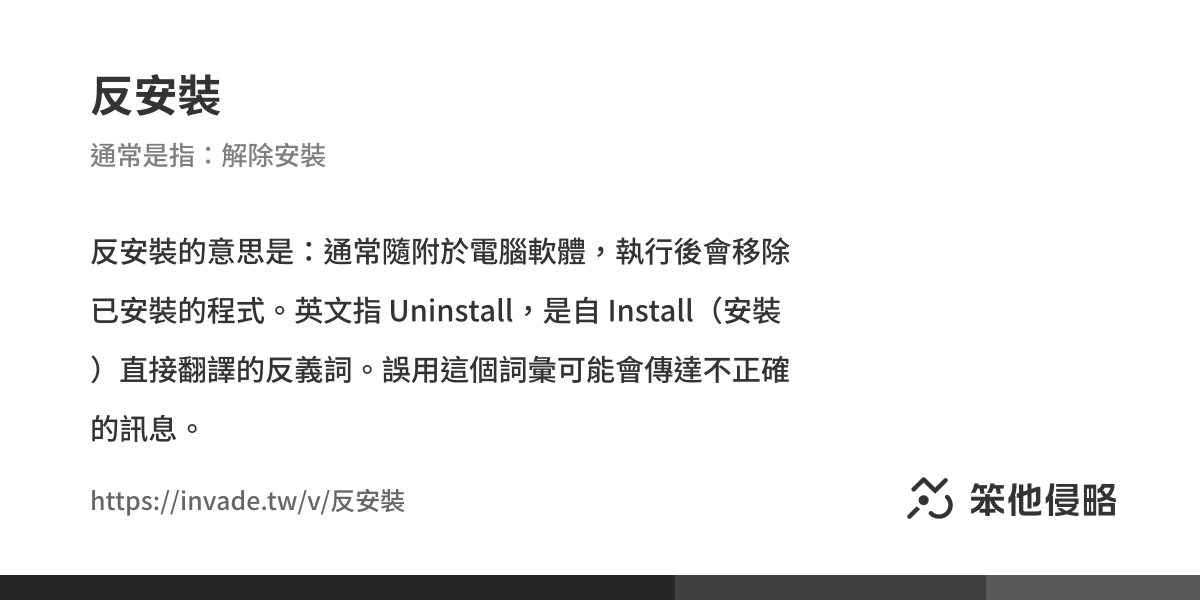
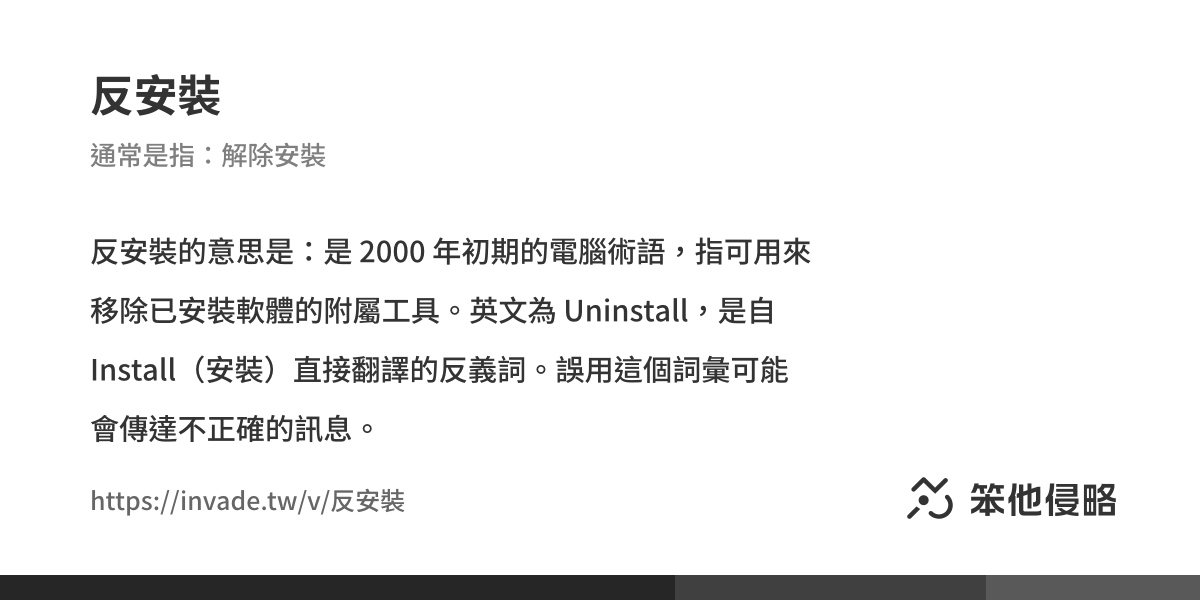
update

diff --git a/docs/v/反安裝.html b/docs/v/反安裝.html
@@ -1,9 +1,9 @@
-<!doctype html><html class="is-secondary is-sharp"><meta charset=utf-8><meta name=viewport content="width=device-width,initial-scale=1"><title>《反安裝》的意思、解釋及例句｜中國侵略性詞彙、支語字典</title><link rel=stylesheet href=https://invade.tw/assets/tocas/tocas.min.css><script src=https://invade.tw/assets/tocas/tocas.min.js></script><link rel=preconnect href=https://fonts.googleapis.com><link rel=preconnect href=https://fonts.gstatic.com crossorigin><link href="https://fonts.googleapis.com/css2?family=Noto+Sans+TC:wght@400;500;700&display=swap" rel=stylesheet><link rel=stylesheet href=https://invade.tw/assets/styles/style.css><link rel=stylesheet href=https://invade.tw/assets/styles/vocab.css><script src=https://invade.tw/assets/scripts/db_store.js defer></script><script src=https://invade.tw/assets/scripts/db_random_items.js defer></script><script src=https://invade.tw/assets/scripts/db_random_vocabs.js defer></script><script src=https://invade.tw/assets/scripts/random_store.js defer></script><script src=https://cdnjs.cloudflare.com/ajax/libs/alpinejs/3.14.5/cdn.min.js defer></script><meta name=description content="反安裝的意思是：通常隨附於電腦軟體，執行後會移除已安裝的程式。英文指 Uninstall，是自 Install（安裝）直接翻譯的反義詞。"><meta name=twitter:card content=summary><meta name=twitter:title content=《反安裝》的意思、解釋及例句｜中國侵略性詞彙、支語字典><meta name=twitter:description content="反安裝的意思是：通常隨附於電腦軟體，執行後會移除已安裝的程式。英文指 Uninstall，是自 Install（安裝）直接翻譯的反義詞。"><meta name=twitter:image content=https://invade.tw/assets/vocab_covers/5Y+N5a6J6KOd.png><meta property=og:site_name content=中國侵略資料庫><meta property=og:title content=《反安裝》的意思、解釋及例句｜中國侵略性詞彙、支語字典><meta property=og:type content=article><meta property=og:image content=https://invade.tw/assets/vocab_covers/5Y+N5a6J6KOd.png><meta property=og:url content=https://invade.tw/v/反安裝><meta property=og:image:type content=image/png><meta property=og:image:width content=1200><meta property=og:image:height content=600><meta property=og:description content="反安裝的意思是：通常隨附於電腦軟體，執行後會移除已安裝的程式。英文指 Uninstall，是自 Install（安裝）直接翻譯的反義詞。"><meta property=og:updated_time content=2025-04-11T11:33:29+08:00><meta property=article:modified_time content=2025-04-11T11:33:29+08:00><link rel=apple-touch-icon sizes=180x180 href=https://invade.tw/assets/favicons/apple-touch-icon.png><link rel=icon type=image/png sizes=32x32 href=https://invade.tw/assets/favicons/favicon-32x32.png><link rel=icon type=image/png sizes=16x16 href=https://invade.tw/assets/favicons/favicon-16x16.png><link rel=manifest href=https://invade.tw/assets/favicons/site.webmanifest><link rel=mask-icon href=https://invade.tw/assets/favicons/safari-pinned-tab.svg color=#5bbad5><link rel="shortcut icon" href=https://invade.tw/assets/favicons/favicon.ico><meta name=msapplication-TileColor content=#da532c><meta name=msapplication-config content=https://invade.tw/assets/favicons/browserconfig.xml><meta name=theme-color content=#ffffff><body class="tablet:裝置-平板 mobile:裝置-行動" x-data=random_store><div id=導覽列><div class=ts-container><div class="ts-grid is-middle-aligned is-relaxed mobile:has-hidden"><div class=column><div class="ts-wrap is-middle-aligned is-relaxed"><a href=https://invade.tw class="ts-image has-leading-none"><img id=導覽列-商標 src=https://invade.tw/assets/images/logo-text.svg></a>
+<!doctype html><html class="is-secondary is-sharp"><meta charset=utf-8><meta name=viewport content="width=device-width,initial-scale=1"><title>《反安裝》的意思、解釋及例句｜中國侵略性詞彙、支語字典</title><link rel=stylesheet href=https://invade.tw/assets/tocas/tocas.min.css><script src=https://invade.tw/assets/tocas/tocas.min.js></script><link rel=preconnect href=https://fonts.googleapis.com><link rel=preconnect href=https://fonts.gstatic.com crossorigin><link href="https://fonts.googleapis.com/css2?family=Noto+Sans+TC:wght@400;500;700&display=swap" rel=stylesheet><link rel=stylesheet href=https://invade.tw/assets/styles/style.css><link rel=stylesheet href=https://invade.tw/assets/styles/vocab.css><script src=https://invade.tw/assets/scripts/db_store.js defer></script><script src=https://invade.tw/assets/scripts/db_random_items.js defer></script><script src=https://invade.tw/assets/scripts/db_random_vocabs.js defer></script><script src=https://invade.tw/assets/scripts/random_store.js defer></script><script src=https://cdnjs.cloudflare.com/ajax/libs/alpinejs/3.14.5/cdn.min.js defer></script><meta name=description content="反安裝的意思是：是 2000 年初期的電腦術語，指可用來移除已安裝軟體的附屬工具。英文為 Uninstall，是自 Install（安裝）直接翻譯的反義詞。"><meta name=twitter:card content=summary><meta name=twitter:title content=《反安裝》的意思、解釋及例句｜中國侵略性詞彙、支語字典><meta name=twitter:description content="反安裝的意思是：是 2000 年初期的電腦術語，指可用來移除已安裝軟體的附屬工具。英文為 Uninstall，是自 Install（安裝）直接翻譯的反義詞。"><meta name=twitter:image content=https://invade.tw/assets/vocab_covers/5Y+N5a6J6KOd.png><meta property=og:site_name content=中國侵略資料庫><meta property=og:title content=《反安裝》的意思、解釋及例句｜中國侵略性詞彙、支語字典><meta property=og:type content=article><meta property=og:image content=https://invade.tw/assets/vocab_covers/5Y+N5a6J6KOd.png><meta property=og:url content=https://invade.tw/v/反安裝><meta property=og:image:type content=image/png><meta property=og:image:width content=1200><meta property=og:image:height content=600><meta property=og:description content="反安裝的意思是：是 2000 年初期的電腦術語，指可用來移除已安裝軟體的附屬工具。英文為 Uninstall，是自 Install（安裝）直接翻譯的反義詞。"><meta property=og:updated_time content=2025-04-11T11:52:21+08:00><meta property=article:modified_time content=2025-04-11T11:52:21+08:00><link rel=apple-touch-icon sizes=180x180 href=https://invade.tw/assets/favicons/apple-touch-icon.png><link rel=icon type=image/png sizes=32x32 href=https://invade.tw/assets/favicons/favicon-32x32.png><link rel=icon type=image/png sizes=16x16 href=https://invade.tw/assets/favicons/favicon-16x16.png><link rel=manifest href=https://invade.tw/assets/favicons/site.webmanifest><link rel=mask-icon href=https://invade.tw/assets/favicons/safari-pinned-tab.svg color=#5bbad5><link rel="shortcut icon" href=https://invade.tw/assets/favicons/favicon.ico><meta name=msapplication-TileColor content=#da532c><meta name=msapplication-config content=https://invade.tw/assets/favicons/browserconfig.xml><meta name=theme-color content=#ffffff><body class="tablet:裝置-平板 mobile:裝置-行動" x-data=random_store><div id=導覽列><div class=ts-container><div class="ts-grid is-middle-aligned is-relaxed mobile:has-hidden"><div class=column><div class="ts-wrap is-middle-aligned is-relaxed"><a href=https://invade.tw class="ts-image has-leading-none"><img id=導覽列-商標 src=https://invade.tw/assets/images/logo-text.svg></a>
 <a class=導覽列-項目 href=https://invade.tw/items><span class="ts-icon is-regular is-compass-icon"></span>瀏覽</a></div></div><div class="column is-center-aligned is-fluid"><form action=https://invade.tw/vocabs><div id=導覽列-搜尋欄位 class="ts-input is-solid is-start-icon tablet:has-hidden"><span class="ts-icon is-magnifying-glass-icon"></span><input type=search name=q placeholder=搜尋詞彙…></div></form></div><div class=column><div class="ts-wrap is-relaxed is-end-aligned"><a class=導覽列-項目 href=https://invade.tw/about><span class="ts-icon is-regular is-circle-question-icon"></span>關於</a>
 <a class=導覽列-項目 href=https://invade.tw/news><span class="ts-icon is-regular is-message-icon"></span>新聞</a>
 <a class=導覽列-項目 target=_blank href=https://github.com/caris-events/invade><span class="ts-icon is-brand is-github-icon"></span>GitHub</a></div></div></div><div class="ts-grid is-middle-aligned tablet+:has-hidden"><div class="column is-fluid"><div class="ts-wrap is-middle-aligned is-relaxed"><button id=導覽列-漢堡按鈕 type=button class="ts-button is-icon is-large is-ghost" data-dialog=側邊欄>
 <span class="ts-icon is-bars-icon"></span></button>
-<a href=https://invade.tw class="ts-image has-leading-none"><img id=導覽列-商標 src=https://invade.tw/assets/images/logo-text.svg></a></div></div><div class=column><a class="ts-button is-icon is-large is-ghost" href=https://invade.tw/vocabs><span class="ts-icon is-magnifying-glass-icon"></span></a><a class="ts-button is-icon is-large is-ghost" href=https://github.com/caris-events/invade target=_blank><span class="ts-icon is-brand is-github-icon"></span></a></div></div></div></div><div class=ts-divider></div><dialog id=側邊欄 class="ts-app-drawer is-start"><div class="content has-flex-column"><div id=側邊欄-標頭 class=ts-content><button id=側邊欄-關閉按鈕 class="ts-close is-secondary is-large" data-dialog=側邊欄></button></div><div id=側邊欄-選單 class="ts-menu is-start-icon"><div class=ts-divider></div><a class=item href=https://invade.tw><span class="ts-icon is-house-icon"></span>首頁</a><div class=ts-divider></div><a class=item href=https://invade.tw/items><span class="ts-icon is-list-icon"></span>瀏覽所有項目</a><div class=ts-divider></div></div><div class=has-top-spaced-auto><div id=側邊欄-選單 class="ts-menu is-start-icon"><div class=ts-divider></div><a class=item href=https://invade.tw/about><span class="ts-icon is-circle-question-icon"></span>關於</a><div class=ts-divider></div><a class=item href=https://invade.tw/news><span class="ts-icon is-newspaper-icon"></span>新聞</a><div class=ts-divider></div><a class=item target=_blank href=https://invade.tw/contribute><span class="ts-icon is-pen-to-square-icon"></span>建議、修改條目</a><div class=ts-divider></div><a class=item target=_blank href=https://github.com/caris-events/invade><span class="ts-icon is-brand is-github-icon"></span>GitHub</a><div class=ts-divider></div></div></div><div class=ts-content><button class="ts-button is-outlined is-fluid" data-dialog=側邊欄>關閉選單</button></div></div></dialog><div class="ts-container tablet-:has-vertically-padded-large desktop+:has-vertically-padded-big mobile:is-fitted"><div id=單字-板岩><div class=ts-grid><div class="column is-fluid"><div class="ts-wrap is-compact has-bottom-spaced tablet+:has-hidden"><a href="https://invade.tw/vocabs?c=TECHNOLOGY" class="ts-badge is-secondary">科技</a></div><div class="ts-wrap mobile:is-compact"><div class=單字-板岩-每個分解><div class=單字-板岩-每個分解-漢字>反</div><div class="單字-板岩-每個分解-注音 has-flex-center"><div class="ts-text is-bold">ㄈ</div><div class="ts-text is-bold">ㄢ</div><div class=單字-板岩-每個分解-注音-標點符號>ˇ</div></div></div><div class=單字-板岩-每個分解><div class=單字-板岩-每個分解-漢字>安</div><div class="單字-板岩-每個分解-注音 has-flex-center"><div class="ts-text is-bold">ㄢ</div></div></div><div class=單字-板岩-每個分解><div class=單字-板岩-每個分解-漢字>裝</div><div class="單字-板岩-每個分解-注音 has-flex-center"><div class="ts-text is-bold">ㄓ</div><div class="ts-text is-bold">ㄨ</div><div class="ts-text is-bold">ㄤ</div></div></div></div><div id=單字-板岩-說明 class="tablet+:has-top-spaced-large mobile:has-top-spaced tablet+:has-16px mobile:has-15px">通常隨附於電腦軟體，執行後會移除已安裝的程式。英文指 Uninstall，是自 Install（安裝）直接翻譯的反義詞。</div></div><div class="column mobile:has-hidden"><div class="ts-wrap is-compact is-end-aligned"><span class="ts-text is-secondary">分類：</span>
+<a href=https://invade.tw class="ts-image has-leading-none"><img id=導覽列-商標 src=https://invade.tw/assets/images/logo-text.svg></a></div></div><div class=column><a class="ts-button is-icon is-large is-ghost" href=https://invade.tw/vocabs><span class="ts-icon is-magnifying-glass-icon"></span></a><a class="ts-button is-icon is-large is-ghost" href=https://github.com/caris-events/invade target=_blank><span class="ts-icon is-brand is-github-icon"></span></a></div></div></div></div><div class=ts-divider></div><dialog id=側邊欄 class="ts-app-drawer is-start"><div class="content has-flex-column"><div id=側邊欄-標頭 class=ts-content><button id=側邊欄-關閉按鈕 class="ts-close is-secondary is-large" data-dialog=側邊欄></button></div><div id=側邊欄-選單 class="ts-menu is-start-icon"><div class=ts-divider></div><a class=item href=https://invade.tw><span class="ts-icon is-house-icon"></span>首頁</a><div class=ts-divider></div><a class=item href=https://invade.tw/items><span class="ts-icon is-list-icon"></span>瀏覽所有項目</a><div class=ts-divider></div></div><div class=has-top-spaced-auto><div id=側邊欄-選單 class="ts-menu is-start-icon"><div class=ts-divider></div><a class=item href=https://invade.tw/about><span class="ts-icon is-circle-question-icon"></span>關於</a><div class=ts-divider></div><a class=item href=https://invade.tw/news><span class="ts-icon is-newspaper-icon"></span>新聞</a><div class=ts-divider></div><a class=item target=_blank href=https://invade.tw/contribute><span class="ts-icon is-pen-to-square-icon"></span>建議、修改條目</a><div class=ts-divider></div><a class=item target=_blank href=https://github.com/caris-events/invade><span class="ts-icon is-brand is-github-icon"></span>GitHub</a><div class=ts-divider></div></div></div><div class=ts-content><button class="ts-button is-outlined is-fluid" data-dialog=側邊欄>關閉選單</button></div></div></dialog><div class="ts-container tablet-:has-vertically-padded-large desktop+:has-vertically-padded-big mobile:is-fitted"><div id=單字-板岩><div class=ts-grid><div class="column is-fluid"><div class="ts-wrap is-compact has-bottom-spaced tablet+:has-hidden"><a href="https://invade.tw/vocabs?c=TECHNOLOGY" class="ts-badge is-secondary">科技</a></div><div class="ts-wrap mobile:is-compact"><div class=單字-板岩-每個分解><div class=單字-板岩-每個分解-漢字>反</div><div class="單字-板岩-每個分解-注音 has-flex-center"><div class="ts-text is-bold">ㄈ</div><div class="ts-text is-bold">ㄢ</div><div class=單字-板岩-每個分解-注音-標點符號>ˇ</div></div></div><div class=單字-板岩-每個分解><div class=單字-板岩-每個分解-漢字>安</div><div class="單字-板岩-每個分解-注音 has-flex-center"><div class="ts-text is-bold">ㄢ</div></div></div><div class=單字-板岩-每個分解><div class=單字-板岩-每個分解-漢字>裝</div><div class="單字-板岩-每個分解-注音 has-flex-center"><div class="ts-text is-bold">ㄓ</div><div class="ts-text is-bold">ㄨ</div><div class="ts-text is-bold">ㄤ</div></div></div></div><div id=單字-板岩-說明 class="tablet+:has-top-spaced-large mobile:has-top-spaced tablet+:has-16px mobile:has-15px">是 2000 年初期的電腦術語，指可用來移除已安裝軟體的附屬工具。英文為 Uninstall，是自 Install（安裝）直接翻譯的反義詞。</div></div><div class="column mobile:has-hidden"><div class="ts-wrap is-compact is-end-aligned"><span class="ts-text is-secondary">分類：</span>
 <a href="https://invade.tw/vocabs?c=TECHNOLOGY" class="ts-badge is-secondary">科技</a></div></div></div><div id=單字-板岩-角落文字>侵略性詞彙</div></div><div class="ts-grid tablet+:is-relaxed tablet+:has-top-spaced-big mobile:has-top-spaced-large mobile:is-stacked"><div class="column tablet:is-11-wide desktop+:is-12-wide"><div class="ts-header mobile:has-horizontally-padded">用法與例句</div><div class="ts-box has-top-spaced mobile:has-edged"><div class="ts-content tablet+:is-padded mobile:is-vertically-padded"><div class=ts-header><span class=單字-範例符號>◆</span>
 解除安裝</div><div class="tablet+:ts-content is-rounded is-secondary has-top-spaced"><div class="ts-grid mobile:is-compact"><div class=column><span class="單字-對應國家 mobile:has-13px">台灣</span></div><div class="column is-fluid"><p>這款軟體的資料夾裡有<span class=單字-螢光標記-重點>解除安裝</span>工具。</div></div><div class="ts-grid mobile:is-compact has-top-spaced"><div class=column><span class="單字-對應國家 mobile:has-13px">中國</span></div><div class="column is-fluid"><p>這款<a class=單字-螢光標記-其他單字 href=https://invade.tw/v/軟件>軟件</a>的<a class=單字-螢光標記-其他單字 href=https://invade.tw/v/文件>文件</a>夾裡有<span class=單字-螢光標記-重點>反安裝</span>工具。</div></div></div><div class="ts-divider has-vertically-spaced-large has-hidden-last"></div></div></div><div class="ts-grid is-bottom-aligned tablet+:has-top-spaced-big mobile:has-top-spaced-large mobile:has-horizontally-padded"><div class="column is-fluid"><div class=ts-header>看看這些詞彙</div></div><div class=column><a href=https://invade.tw/vocabs class="ts-button is-outlined">檢視更多</a></div></div><div id=隨機詞彙 class="ts-grid is-3-columns has-top-spaced tablet+:is-3-columns mobile:is-2-columns mobile:has-horizontally-padded"><template x-for="vocab in vocabs(9)"><div class=column><a :href="`https://invade.tw/v/${vocab.word}`" class=ts-box><div class="ts-content tablet+:is-horizontally-padded"><div class="ts-text is-bold is-1-lines tablet+:has-16px mobile:has-15px" x-text=vocab.word></div><div class="ts-text is-secondary is-1-lines" x-text=vocab.correct_word></div></div></a></div></template></div><div class="ts-grid is-bottom-aligned tablet+:has-top-spaced-big mobile:has-top-spaced-large mobile:has-horizontally-padded"><div class="column is-fluid"><div class=ts-header>看看這些品牌</div></div><div class=column><a href=https://invade.tw/items class="ts-button is-outlined">檢視更多</a></div></div><div id=隨機條目 class="ts-grid has-top-spaced desktop+:is-5-columns tablet:is-3-columns mobile:is-2-columns mobile:has-horizontally-padded"><template x-for="item in items(10)"><div class=column><a :href="`https://invade.tw/${item.code}`" class=ts-box><div class="ts-content is-center-aligned"><div class="商標圖示 商標圖示-隨機項目 ts-image"><img :src="`https://invade.tw/assets/item_logos/${item.code}.jpg`"></div><div class="ts-text is-1-lines is-center-aligned has-15px" x-text=item.name></div><div class="ts-text is-secondary is-1-lines"><template x-if="item.name_alias !== ''"><span x-text=item.name_alias></span></template><template x-if="item.name_alias === ''"><span x-text="`${item.owner_str}${item.type_str}`"></span></template></div></div></a></div></template></div></div><div class="column tablet:is-5-wide desktop+:is-4-wide mobile:has-horizontally-padded"><div class="ts-header mobile:has-top-spaced">侵略性詞彙是什麼？</div><div class="ts-text is-secondary has-top-spaced"><p>經過中國的言論審查、中共思想而使用的詞彙，例如：中國常以「領導」代稱台灣總統；或以「台灣地區」來暗喻台灣不是國家。<p>語言代表一個國家的文化與思想，若長時間誤用這些詞彙，可能會在無形之中影響自己的思考方式。</p><a href=https://invade.tw/n/侵略性詞彙的定義 class="ts-button is-circular is-outlined">了解更多</a></div><div class="ts-divider has-vertically-spaced-large"></div><div class=ts-header>透過匿名方式提供內容</div><div class="ts-text is-secondary has-top-spaced">保持匿名性來協助新增、編輯條目，請透過此 Google 表單填寫資料。</div><a target=_blank rel="noopener noreferrer" href=https://invade.tw/contribute class="ts-button is-circular is-outlined has-top-spaced">填寫 Google 表單</a></div></div></div><div class=ts-divider></div><div class="ts-container has-top-padded-big tablet:has-bottom-padded-big desktop+:has-bottom-padded-huge mobile:has-bottom-padded-big"><div class="ts-grid is-bottom-aligned is-relaxed mobile:is-stacked"><div class="column tablet:is-11-wide desktop+:is-12-wide"><div id=頁腳-文字 class=has-leading-large>此頁面之商標、圖示屬於該相關組織且僅作為提及並無挪作他用。在非營利與教育目的下主張合理使用並以低解析度保護原著作。資料來自網路參考、大眾共同編輯，閱聽者應妥善查證其完整性、即時性與正確性，且不得作為法律依據。<br><br>笨他侵略來自
 <span id=頁腳-國旗 class="ts-flag is-taiwan-flag is-rounded is-small"></span>台灣，原始碼授權為

diff --git a/docs/assets/scripts/db_random_items.js b/docs/assets/scripts/db_random_items.js
@@ -1,1 +1,1 @@
-var db_random_items = [["orient-international","東方國際","Orient International",3,1,4],["paper-games","疊紙遊戲","Paper Games",3,1,3],["hololive","Hololive Production","",4,3,4],["gaea","蓋婭互娛","GAEA",3,1,3],["type-moon","TYPE-MOON","",4,1,2],["news-market","上下游新聞","News\u0026Market",1,1,1],["aihuanhuan","換換","",3,1,3],["oppo","OPPO","歐珀",3,1,3],["want-want","旺旺集團","Want Want",1,1,4],["miside","MiSide","",4,6,0],["ingco-tools","盈合工具","INGCO Tools",3,1,4],["orient-enterprise","東方創業","Orient Enterprise",3,1,4],["nexus-point","今翊資本","Nexus Point Capital",2,1,2],["chillyroom","涼屋遊戲","ChillyRoom",3,1,3],["chinese-academy-of-sciences","中國科學院","Chinese Academy Of Sciences",3,3,4],["long-cheng","龍成網路","Long Cheng",1,1,4],["babeltime","巴別時代","Babeltime",3,1,3],["efun","易幻網路","Efun",3,1,3],["netease","網易","Netease",3,1,3],["midea","美的集團","Midea Group",3,1,3],["cover-corporation","Cover 株式會社","Cover Corporation",4,1,4],["lava-music","拿火音樂","LAVA MUSIC",3,1,3],["path-of-exile","流亡黯道","Path of Exile",4,6,3],["the-finals","最終決戰","THE FINALS",4,6,4],["sunnyhills","微熱山丘","SunnyHills",1,1,4],["tencent-cloud","騰訊雲","Tencent Cloud",3,5,3],["sina","新浪","Sina",3,1,3],["openharmony","OpenHarmony","",3,3,3],["disney-interactive","迪士尼互動","Disney Interactive",4,1,4],["genshin-impact","原神","Genshin Impact",3,6,3],["kingsoft","金山軟件","Kingsoft",3,1,3],["acer","Acer","宏碁",1,1,0],["gaijin-entertainment","Gaijin Entertainment","",4,1,4],["huobi","火幣","Huobi",3,1,4],["stella-sora","星塔旅人","Stella Sora",3,6,3],["darkwinter-software","暗冬網路","Darkwinter Software",3,1,3],["mamba-interactive","曼巴互娛","Mamba Interactive",1,1,3],["cathay-united-bank","國泰世華","Cathay United Bank",1,1,2],["hypergryph","鷹角網絡","HYPERGRYPH",3,1,3],["yingsin-win","盈新五金","",1,1,2],["central-military-commission","中央軍事委員會","CMC",3,3,4],["mihoyo","米哈遊","miHoYo",3,1,3],["cygames","Cygames","",4,1,2],["gryphline","獅鷲邊境","GRYPHLINE",4,1,3],["komoe-game","小萌科技","Komoe Game",1,1,4],["str-network","薩泰爾娛樂","STR Network",1,1,2],["dcard","Dcard","",1,1,2],["sony","索尼","Sony",4,1,2],["peiyu-digital","沛羽數位","Peiyu Digital",1,1,0],["soundcloud","SoundCloud","",4,1,4],["sea","冬海集團","Sea Limited",4,1,3],["kakao-games","Kakao Games","",4,1,3],["gamepanda","熊貓遊戲","Game Panda",1,1,3],["garena","競舞娛樂","Garena",4,1,3],["fun-hope","峰禾科技","FunHope",1,1,3],["contract-of-fate","命運聖契","Contract of Fate",3,6,3],["kingsgroup","王者在線","KingsGroup",3,1,3],["joker081888","勾起你心中的惡","勾惡",1,2,1],["stove","Stove","",4,5,4],["ubisoft","育碧娛樂","Ubisoft Entertainment SA",4,1,4],["youthdew","朝露工作室","Youth Dew Games",3,1,3],["quantic-dream","Quantic Dream","",4,1,3],["jd","京東","JD.com",3,1,3],["pci-technology","佳都科技","PCI Technology",3,1,3],["geely","吉利汽車","Geely Automobile",3,1,4],["lighthouse-capital","光源資本","Lighthouse Capital",3,1,3],["xiaomi","小米","Xiaomi",3,1,3],["xd-network","心動網路","X.D. Network",3,1,4],["nespresso","Nespresso","",4,1,2],["arknights-endfield","明日方舟：終末地","Arknights: Endfield",3,6,3],["marvel-rivals","漫威爭鋒","Marvel Rivals",3,6,3],["spgame","成都露珠","Spring Game",3,1,3],["electronic-arts","美商藝電","Electronic Arts",4,1,1],["alipay","支付寶","Alipay",3,1,3],["garmin","台灣國際航電","Garmin",4,1,4],["cas-investment","國科投資","",3,3,4],["harmonyos","鴻蒙","HarmonyOS",3,4,3],["lasengle","LASENGLE","",4,1,2],["nexon","樂線","Nexon",4,1,4],["changyou","暢遊時代","Changyou",3,1,3],["wanda-group","萬達集團","Wanda Group",3,1,3],["shopee","蝦皮購物","Shopee",4,5,3],["openatom-foundation","開放原子開源基金會","OpenAtom Foundation",3,3,3],["original-games","奧瑞吉","Original Games",1,1,3],["peroperogames","呸嘍呸嘍","PeroPeroGames",3,1,4],["mojang-studio","Mojang Studios","",4,1,4],["koimi-studio","箜羽工作室","Koimi Studio",3,3,3],["acerpure","Acerpure","宏碁智新",1,1,2],["funplus-phoenix","FPX 電子競技俱樂部","FunPlus Phoneix",3,3,3],["cheetah-mobile","獵豹移動","Cheetah Mobile",3,1,3],["roshow","露笑集團","Roshow",3,1,3],["mk-power","MK-POWER","",1,7,2],["igalia","Igalia","",4,1,0],["supercell","超級細胞","Supercell Oy",4,1,3],["tiktok","抖音","TikTok",3,5,3],["tencent","騰訊","Tencent",3,1,3],["rolling-dice-labs","Rolling Dice Labs","",4,1,3],["china-times","中時新聞網","China Times",1,1,4],["honor","榮耀","Honor",3,1,4],["disney-plus","Disney+","迪士尼+",4,5,4]]
+var db_random_items = [["supercell","超級細胞","Supercell Oy",4,1,3],["marathon-game","馬拉松","Marathon",4,6,2],["shopee","蝦皮購物","Shopee",4,5,3],["detroit-become-human","底特律：化身為人","Detroit: Become Human",4,6,3],["cyberagent","CyberAgent","",4,1,2],["midea","美的集團","Midea Group",3,1,3],["funyours-technology","弘煜科技","FUNYOURS TECHNOLOGY",1,1,2],["world-journal","世界日報","World Journal",1,1,1],["yadea","雅迪","Yadea",3,1,3],["greenwoods-asset-management","景林資產","Greenwoods Asset Management Limited",3,1,3],["indieark","獨立方舟","IndieArk",3,1,3],["bilibili","嗶哩嗶哩","Bilibili",3,1,4],["national-university-of-defense-technology","國防科技大學","NUDT",3,3,4],["unity","Unity","",4,1,4],["cas-investment","國科投資","",3,3,4],["lotus-cars","蓮花汽車","Lotus Cars",4,1,4],["amatsuki-mahjong","天月麻雀","Amatsuki Mahjong",3,6,3],["taiwan-fixed-network","台灣固網","Taiwan Fixed Network",1,1,2],["wind-fantasy-destiny","風色幻想：命運傳說","Wind Fantasy: Destiny",3,6,3],["igalia","Igalia","",4,1,0],["marvel-games","漫威遊戲","Marvel Games",4,1,4],["kartrider-drift","跑跑卡丁車：飄移","KartRider: Drift",4,6,4],["disney-interactive","迪士尼互動","Disney Interactive",4,1,4],["porsche","保時捷","Porsche",4,1,1],["houkai-gakuen-2","崩壞學園 2","Houkai Gakuen 2",3,6,3],["kaiyuanshe","開源社","Kaiyuanshe",3,3,4],["funplus-phoenix","FPX 電子競技俱樂部","FunPlus Phoneix",3,3,3],["lilith-games","莉莉絲遊戲","Lilith Games",3,1,3],["mojang-studio","Mojang Studios","",4,1,4],["united-daily-news-group","聯合報系","United Daily News Group",1,1,1],["hearts-net","紅心網路","Hearts Net",1,1,3],["darkwinter-software","暗冬網路","Darkwinter Software",3,1,3],["woobest","極致遊戲","Woobest",3,1,3],["starwave-networks","STARWAVE NET","",3,1,0],["burger-king-taiwan","漢堡王台灣","Burger King Taiwan",1,1,1],["want-want-china-times-group","旺旺中時媒體集團","Want Want China Times Group",1,1,4],["iwplay-world","艾玩天地","Iwplay World",1,1,3],["john-cena","John Cena","約翰·希南",4,2,1],["37-interactive-entertainment","三七互娛","37 Games",3,1,3],["wupaochun","吳寶春麥方店","",1,1,4],["capital-group","資本集團","Capital Group",4,1,0],["mihoyo","米哈遊","miHoYo",3,1,3],["cognosphere","Cognosphere","識隙之城",4,1,3],["tvbs","TVBS","",1,1,2],["skymoons","天象互動","Skymoons",3,1,3],["disney-plus","Disney+","迪士尼+",4,5,4],["type-moon","TYPE-MOON","",4,1,2],["inch-interactive-entertainment","英旗互動娛樂","Inch",1,1,3],["jd","京東","JD.com",3,1,3],["ea-dice","EA DICE","",4,1,1],["quantic-dream","Quantic Dream","",4,1,3],["shunwei-capital","順為資本","Shunwei Capital",3,1,3],["koimi-studio","箜羽工作室","Koimi Studio",3,3,3],["pwb-play","品玩邦藝術","PWB Play",1,1,0],["paper-games","疊紙遊戲","Paper Games",3,1,3],["cti-news","中天新聞","CTI News Channel",1,1,4],["tuanjie-engine","團結引擎","Tuanjie Engine",3,4,4],["changyou","暢遊時代","Changyou",3,1,3],["yostar","悠星網路","Yostar",3,1,3],["greenpeace","綠色和平","Greenpeace",4,3,4],["perfect-world","完美世界","Perfect World",3,1,3],["stella-sora","星塔旅人","Stella Sora",3,6,3],["mozilla-servo","Servo","",4,4,0],["kakao-page","Kakao Page","",4,5,3],["deepseek","深度求索","DeepSeek",3,1,4],["haojue","豪爵","Haojue",3,1,3],["path-of-exile-2","流亡黯道 2","Path of Exile 2",4,6,3],["eskyfun","天游網路","Eskyfun",3,1,3],["bluepoch","深藍互動","Bluepoch",3,1,3],["bstation","Bstation","",3,5,4],["drodo-studio","巨鳥多多工作室","Drodo Studio",3,3,3],["hoto","小猴科技","HOTO",3,1,3],["iqiyi","愛奇藝","iQiyi",3,1,3],["mirrors-edge-catalyst","靚影特務：關鍵催化","Mirror's Edge Catalyst",4,6,1],["aisphere","愛詩科技","",3,1,3],["mahjong-meta","Mahjong Meta","",4,6,4],["mover-games","魔塊遊戲","Mover Games",1,1,2],["total-tools","TOTAL 工具","TOTAL Tools",3,1,4],["hololive","Hololive Production","",4,3,4],["united-nations","聯合國","United Nations",4,3,4],["inkism-international","墨力國際","Inkism",1,1,4],["btg","首旅集團","Beijing Tourism Group",3,3,4],["gaea","蓋婭互娛","GAEA",3,1,3],["str-network","薩泰爾娛樂","STR Network",1,1,2],["dcard","Dcard","",1,1,2],["gamepanda","熊貓遊戲","Game Panda",1,1,3],["game-tree","亦樹遊戲","Game Tree",1,1,3],["komoe-game","小萌科技","Komoe Game",1,1,4],["pixel-overlord","魔王我不累","Pixel Overlord",3,6,0],["news-market","上下游新聞","News\u0026Market",1,1,1],["zlon-game","紫龍遊戲","Zlon Game",3,1,3],["techtronic-industries","創科實業","Techtronic Industries",2,1,0],["ant-group","螞蟻集團","Ant Group",3,1,3],["miside","MiSide","",4,6,0],["xiaomi","小米","Xiaomi",3,1,3],["magic-house-interactive-entertainment","魔法屋互動娛樂","Magic House Interactive Entertainment",1,1,2],["efun","易幻網路","Efun",3,1,3],["moonton","沐瞳科技","Moonton",3,1,3],["ingco-tools","盈合工具","INGCO Tools",3,1,4],["htc","宏達電","HTC Corporation",1,1,4]]

diff --git a/docs/assets/scripts/db_random_vocabs.js b/docs/assets/scripts/db_random_vocabs.js
@@ -1,1 +1,1 @@
-var db_random_vocabs = [["炸魚","碾壓、虐菜、欺負新手"],["杯具","倒楣、慘了"],["嘴替","代言人、發聲筒"],["平替","替代"],["文檔","文件、說明書"],["硬傷","致命傷、痛點"],["適配","符合"],["信息","訊息、資訊"],["自定義","自訂、客製化"],["贏麻","穩贏"],["光盤","光碟"],["返現","回饋、現金回饋"],["負一屏","資訊主頁"],["踩屎感拖鞋","發泡拖鞋"],["刷手機","滑手機"],["運行","執行"],["美刀","美金"],["繃不住","忍不住"],["屏蔽","隱藏、封鎖、遮蔽"],["現實很骨感","現實很殘酷"],["積攢","累積"],["打印機","列印機"],["演示","範例"],["萌萌噠","很可愛"],["吸引眼球","引人矚目、目不轉睛"],["視頻","影片、視頻"],["科普","講解、分享、小常識"],["草泥馬","羊駝"],["顏值","很帥、很好看"],["萌新","新手"],["匹配","配對、對應、吻合"],["實錘","證實"],["爆款","人氣"],["檔次","級、級別"],["直觀","直覺"],["走心","在意"],["幾個意思","什麼意思"],["在線","線上、在線上"],["蹭熱度","跟風、跟隨潮流"],["全屏","全螢幕"],["給力","可靠、厲害"],["硬盤","硬碟"],["實時","即時"],["國企","國營事業"],["智能","智慧"],["音頻","音訊"],["充電寶","行動電源"],["樂子人","唯恐天下不亂、愉悅犯"],["蛋疼","頭疼、傷腦筋"],["帶節奏","帶風向"],["摩的","機車"],["破防","深受打擊、玻璃心碎滿地、被說中了"],["長知識","學到了"],["組件","元件"],["二哈","哈士奇"],["卸載","移除"],["網吧","網咖"],["拉黑","封鎖"],["充值","儲值"],["打車","叫車"],["微交易","小額付費"],["電子陽痿","失去興趣、提不起勁"],["單身狗","單身漢"],["菜單","選單"],["常量","常數"],["慌得一批","十分慌張"],["查找","搜尋、尋找"],["糾結","執著、惦記"],["手辦","模型、公仔、黏土人"],["社牛","熱情"],["雷管","管狀炸彈"],["嵌套","巢狀"],["全局","全域"],["矢量","向量"],["過渡","轉場"],["媽生","好膚質、好看"],["無節操","不道德、不堪入目"],["藍屏","藍色畫面錯誤、當機"],["字節","位元組"],["回滾","回溯、還原"],["抖色","遞色"],["模板","樣板、範本"],["妹紙","女生、正妹"],["攝像頭","相機、鏡頭"],["浴霸","浴室暖風機"],["高清","高畫質、高音質"],["打印","列印"],["光標","游標"],["白給","送頭"],["操作系統","作業系統"],["打醬油","湊熱鬧、偶然路過"],["監控","監視器"],["軟件","軟體"],["模塊","模組"],["服務員","服務生、店員"],["高光","打亮、精彩時刻"],["大面積","大範圍"],["激活","打開、啟用"],["刷新率","更新率"],["充能","蓄能"]]
+var db_random_vocabs = [["嘴替","代言人、發聲筒"],["狼性","野心"],["軟件","軟體"],["奇葩","怪胎"],["優化","最佳化、改進"],["搞事","惹事生非、鬧事"],["糾結","執著、惦記"],["光標","游標"],["刷手機","滑手機"],["小姊姊","正妹"],["靠譜","可靠"],["不科學","不合理、違反原理、不直覺"],["發光二極管","發光二極體"],["酸奶","優格"],["兼容","相容"],["草泥馬","羊駝"],["查找","搜尋、尋找"],["當前","目前"],["絲滑","順滑、流暢、順口"],["程序員","程式設計師"],["狗子","狗、朋友"],["實屬","確實"],["難繃","難受"],["舉報","檢舉"],["檔次","級、級別"],["反饋","反應、回饋"],["白嫖","免費拿、白吃白喝"],["手雷","手榴彈"],["爆棚","十足、破表"],["民政局","戶政事務所"],["開盒","肉搜"],["嵌套","巢狀"],["踩一捧一","自抬身價"],["打車","叫車"],["集成","整合、彙整"],["教程","教學"],["合同","合約"],["高端","高級、高階"],["吃瓜","看八卦、看戲"],["土豆","馬鈴薯"],["碰瓷","假車禍、敲竹槓"],["集成電路","積體電路"],["宏","巨集"],["預製菜","調理包、微波食品、冷凍食品"],["打印","列印"],["銳評","一針見血、批評"],["光刻機","曝光機"],["勞逸結合","適時休息"],["電機","馬達"],["直白","直接、明確"],["線程","執行緒"],["佈局","格局"],["掙錢","賺錢"],["黃油","奶油"],["謎語人","拐彎抹角、含糊不清"],["新建","新增、建立"],["站著說話不腰疼","風涼話、高談闊論"],["丟失","遺失"],["積分","點數、分數、紅利"],["創建","新增、建立"],["分辨率","解析度、取樣頻率"],["充值","儲值"],["端口","通訊埠"],["協議","協定"],["扯淡","胡扯"],["實打實","穩紮穩打、實實在在"],["套娃","巢狀、模仿"],["字符串","字串"],["高玩","高手"],["全屏","全螢幕"],["硬傷","致命傷、痛點"],["監控","監視器"],["登錄","登入"],["文檔","文件、說明書"],["回車","Enter"],["艾特","標註、提醒"],["緩存","快取"],["AWSL","幹我要死了、誰快幫我叫救護車、心臟快受不了"],["辣眼睛","慘不忍睹"],["模塊","模組"],["打印機","列印機"],["抖色","遞色"],["藍屏","藍色畫面錯誤、當機"],["充能","蓄能"],["高亮","發光、標記、亮部"],["渲染","彩現、算繪"],["塑料","塑膠、塑膠微粒"],["樂子人","唯恐天下不亂、愉悅犯"],["躺平","擺爛、我就爛"],["U盤","USB 隨身碟"],["常量","常數"],["適配器","變壓器"],["拉胯","糟糕、不理想"],["省流","懶人包"],["美刀","美金"],["高大上","高貴、有氣質"],["抑鬱症","憂鬱症"],["互聯網","網際網路"],["中國台灣","台灣"],["真香","真棒、被打臉、嘴巴說不要，身體卻很誠實"]]
